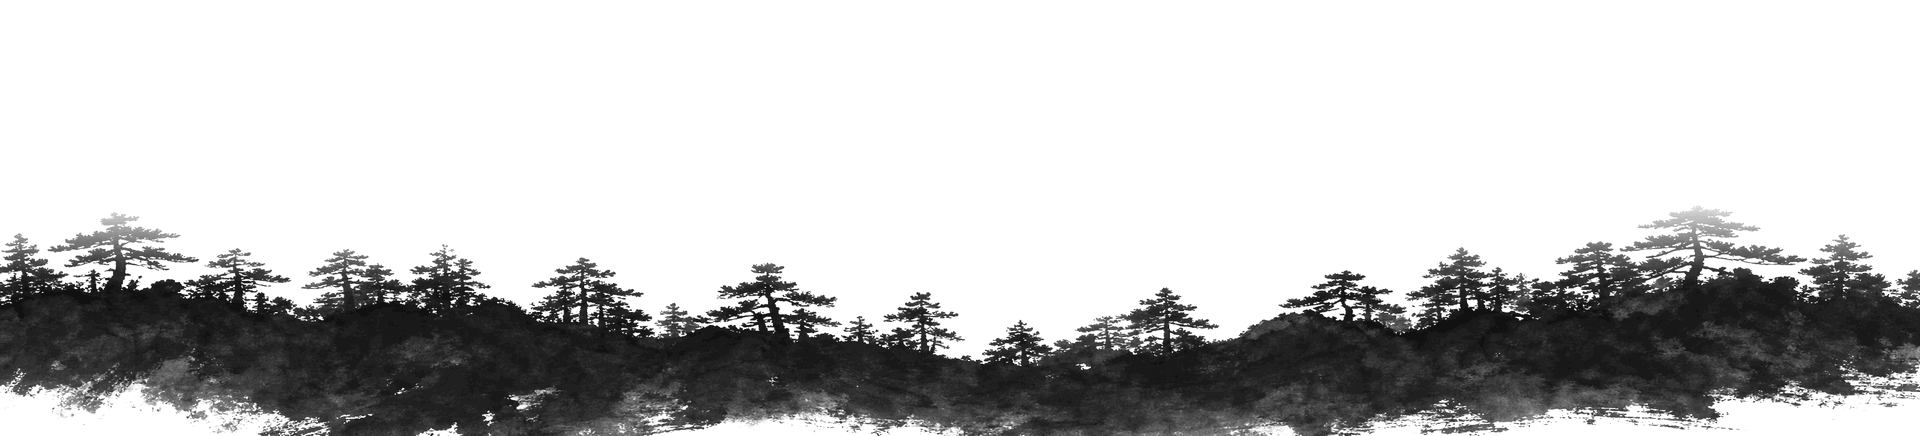
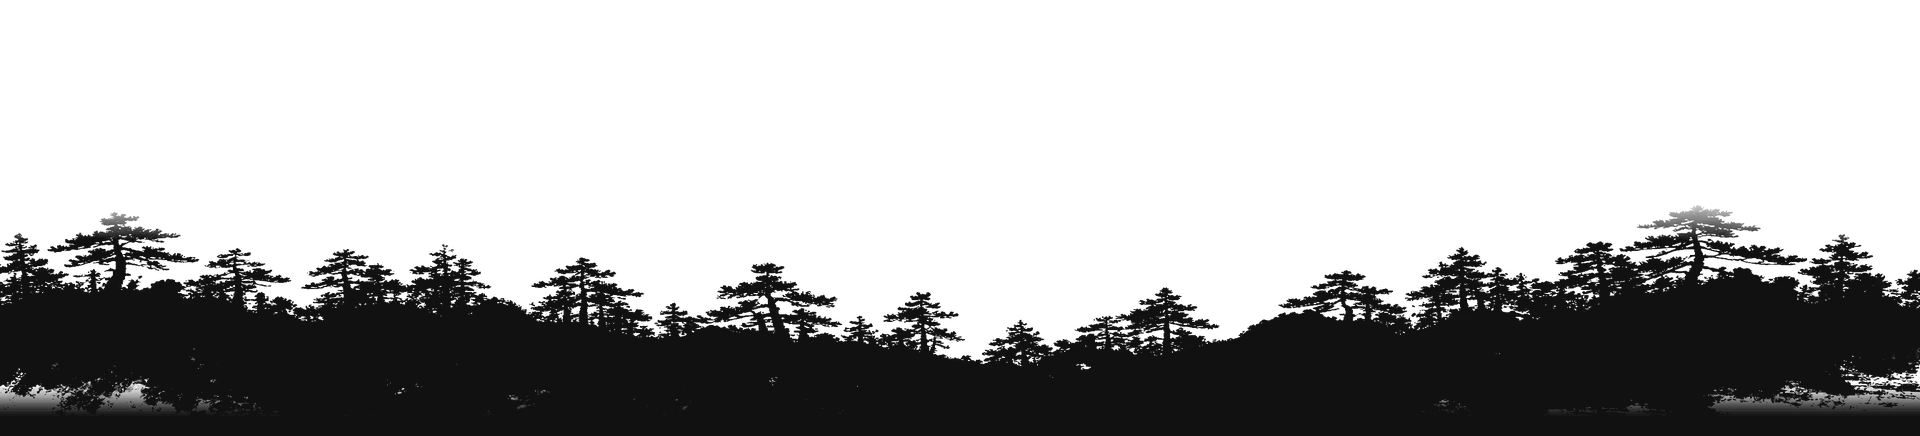
The sun stops leaking through the trees, and the cards earn their panel
FIVE THINGS.

The sun glowed through the pine ridge because the occluder was keyed straight
off ink density and the densest pine mass only reaches 0.88 alpha — 12% of a
red disc came through the trees. The key is boosted x1.9 now, which drives the
solid ridge to a true 1.0 while leaving the misty tops in the 0.2-0.5 range the
sun still has to rise through; the back plate is un-composited against the same
boosted alpha, so the ridge reads as more solid ink rather than double-printed.
The painting also faded its own bottom edge back to paper — lovely on a print,
useless as an occluder at 0.28 alpha — so the foot of the plate is locked
solid. Nothing is lost: the page lays its own mist wash over exactly that band.

The burn was black-over-red, which at half opacity is grey-red mud. It is a
three-stop fire now — ink at the core, oxblood cooling behind it, a hot rim
that holds until the disc has taken the whole sun — baked into one static
gradient, so only the scale animates and it costs nothing per frame. The flood
scale had to go from x1.06 to x1.75 to match: the gradient's SOLID ink only
reaches 62% of the radius, and sized for the outer edge the viewport corners
would have finished on red.

The climb is 281px of scroll, up from 205. The ride is 0.82 of a viewport and
the rise takes 52% of it.

The card hover had a 100ms lead-in, copied faithfully from the reference, where
it reads as composure. On ours it read as lag — cursor on the panel, panel not
[…]

Changed region(s): [[0.0, 0.4771, 1.0, 1.0]]

diff --git a/style.css b/style.css
@@ -544,7 +544,14 @@ section { padding: clamp(96px, 15vh, 210px) var(--pad); position: relative; }
    when the disc floods the page. */
 .sun-fill {
   inset: -2%;
-  background: radial-gradient(circle, var(--ink) 84%, rgba(17,17,17,0) 100%);
+  /* Black over red at half opacity is grey-red mud, which is what the flat
+     crossfade looked like. The burn is a THREE-STOP fire instead — ink at the
+     core, oxblood where it is still cooling, and a hot rim that never quite
+     goes out until the disc has taken the whole sun. All of it is baked into
+     one static gradient; only the scale animates, so it composites and costs
+     nothing per frame. */
+  background: radial-gradient(circle,
+    var(--ink) 62%, #3A0F08 78%, #8A1F10 92%, rgba(150,34,20,0) 100%);
   opacity: 0; transform: scale(0.1); transform-origin: 50% 50%;
   will-change: transform, opacity;
 }
@@ -867,11 +874,23 @@ html.sun-up .sun { z-index: 6; }
   display: flex; flex-direction: column; justify-content: space-between;
   gap: 24px;
   min-height: clamp(400px, 35vw, 532px);
-  padding: clamp(24px, 2.6vw, 40px);
-  /* the wall is #111; the slot is one step off it, closed by a hairline —
-     a mounted panel, not a raised card */
-  background: rgba(255,255,255,0.035);
-  box-shadow: inset 0 0 0 1px rgba(255,255,255,0.08);
+  /* held in a variable because the copy's scrims have to bleed out to exactly
+     this edge — a hard-coded second copy would drift the first time it moves */
+  --pad-slot: clamp(24px, 2.6vw, 40px);
+  padding: var(--pad-slot);
+  /* The wall is #111 and the slot is a panel mounted on it. Flat fill made it
+     a grey rectangle; this is lit instead — brighter along the top edge where
+     the light falls, settling into the wall through the middle, picking up
+     again at the foot. Two hairlines, not one: a bright top edge and a quieter
+     ring, which is how a mounted board actually catches a room. */
+  background:
+    linear-gradient(180deg,
+      rgba(255,255,255,0.075) 0%,
+      rgba(255,255,255,0.022) 46%,
+      rgba(255,255,255,0.014) 72%,
+      rgba(255,255,255,0.05) 100%);
+  box-shadow: inset 0 0 0 1px rgba(255,255,255,0.09),
+              inset 0 1px 0 rgba(255,255,255,0.16);
   /* NOT overflow:hidden. The revealed sheet ends at 10deg and has to hang over
      its neighbours; clipping it here is what made our version read as a box
      lighting up instead of a print being laid down. The raised z-index below
@@ -889,11 +908,36 @@ html.sun-up .sun { z-index: 6; }
 /* content sits at 2; the media opens ABOVE it at 6 and takes the whole panel,
    which is the reference's move: at rest you read the name, on hover you see
    the thing */
+/* The copy gets its own ground. On a pointer device the panel is empty behind
+   it, but on touch the artwork sits there as a ghost and the tags and the name
+   were reading straight off it. A scrim bled from the panel's own edges — dark
+   at the edge, nothing by the middle — means the type always has something
+   under it and the panel still looks empty when it is. */
 .slot-top, .slot-foot { position: relative; z-index: 2; }
-.slot-n {
-  font-size: 12px; font-weight: 600; letter-spacing: 0.14em;
-  color: rgba(255,255,255,0.45); margin-bottom: 14px;
+.slot-top::before, .slot-foot::before {
+  content: ""; position: absolute; z-index: -1; pointer-events: none;
+  left: calc(var(--pad-slot) * -1); right: calc(var(--pad-slot) * -1);
 }
+.slot-top::before {
+  top: calc(var(--pad-slot) * -1); bottom: -28px;
+  background: linear-gradient(180deg, rgba(10,10,10,0.72) 0%, rgba(10,10,10,0.42) 55%, rgba(10,10,10,0) 100%);
+}
+.slot-foot::before {
+  bottom: calc(var(--pad-slot) * -1); top: -34px;
+  background: linear-gradient(0deg, rgba(10,10,10,0.78) 0%, rgba(10,10,10,0.44) 58%, rgba(10,10,10,0) 100%);
+}
+.slot-n {
+  display: inline-flex; align-items: center; gap: 10px;
+  font-size: 12px; font-weight: 600; letter-spacing: 0.14em;
+  color: rgba(255,255,255,0.5); margin-bottom: 14px;
+}
+/* a short rule off the number, the way a shelf tag is ruled */
+.slot-n::after {
+  content: ""; width: 26px; height: 1px;
+  background: rgba(255,255,255,0.26);
+}
+.slot.is-live .slot-n { color: #F0704B; }
+.slot.is-live .slot-n::after { background: rgba(240,112,75,0.5); }
 .slot-name {
   font-family: "Shippori Mincho", Georgia, serif; font-weight: 700;
   font-size: clamp(30px, 3.3vw, 48px); line-height: 1.16; letter-spacing: -0.01em;

diff --git a/index-tr.html b/index-tr.html
@@ -36,9 +36,9 @@
   <link rel="manifest" href="/site.webmanifest">
   <link rel="preload" as="font" type="font/woff2" href="assets/fonts/shippori-800.woff2" crossorigin>
   <link rel="preload" as="font" type="font/woff2" href="assets/fonts/manrope-var.woff2" crossorigin>
-  <link rel="preload" as="image" imagesrcset="assets/horizon-900.webp?s=4 900w, assets/horizon-1400.webp?s=4 1400w, assets/horizon.webp?s=4 1920w" imagesizes="110vw" fetchpriority="high">
-  <link rel="preload" as="image" href="assets/sun-ink.webp?s=4" fetchpriority="high">
-  <link rel="stylesheet" href="style.css?v=124">
+  <link rel="preload" as="image" imagesrcset="assets/horizon-900.webp?s=5 900w, assets/horizon-1400.webp?s=5 1400w, assets/horizon.webp?s=5 1920w" imagesizes="110vw" fetchpriority="high">
+  <link rel="preload" as="image" href="assets/sun-ink.webp?s=5" fetchpriority="high">
+  <link rel="stylesheet" href="style.css?v=125">
   <script type="application/ld+json">
   {"@context": "https://schema.org", "@type": "Organization", "name": "217 Products", "url": "https://217products.com/", "logo": "https://217products.com/assets/icon-512.png", "image": "https://217products.com/assets/zen.webp?w=1", "description": "Ankara’dan dünyaya açılan bağımsız bir ürün şirketiyiz. Gördüğümüz boşluklara hızlı, sade ve uzun ömürlü ürünler inşa ediyoruz.", "email": "destek217product@gmail.com", "foundingDate": "2026", "address": {"@type": "PostalAddress", "addressLocality": "Ankara", "addressCountry": "TR"}}
   </script>
@@ -73,9 +73,9 @@
     <!-- 1 · HERO — one sentence on paper, the plate at its foot -->
     <section class="hero">
       <div class="hero-ground" id="scene" aria-hidden="true">
-        <img decoding="async" class="hz hz-back" data-depth="0.22" src="assets/horizon.webp?s=4" srcset="assets/horizon-900.webp?s=4 900w, assets/horizon-1400.webp?s=4 1400w, assets/horizon.webp?s=4 1920w" sizes="110vw" alt="" width="1920" height="436" fetchpriority="high">
-        <span class="sun" id="sun"><img class="sun-ink" src="assets/sun-ink.webp?s=4" alt="" width="320" height="320" decoding="sync" fetchpriority="high"><i class="sun-fill"></i></span>
-        <img decoding="async" class="hz hz-front" data-depth="0.22" src="assets/horizon-front.webp?s=4" srcset="assets/horizon-front-900.webp?s=4 900w, assets/horizon-front-1400.webp?s=4 1400w, assets/horizon-front.webp?s=4 1920w" sizes="110vw" alt="" width="1920" height="436">
+        <img decoding="async" class="hz hz-back" data-depth="0.22" src="assets/horizon.webp?s=5" srcset="assets/horizon-900.webp?s=5 900w, assets/horizon-1400.webp?s=5 1400w, assets/horizon.webp?s=5 1920w" sizes="110vw" alt="" width="1920" height="436" fetchpriority="high">
+        <span class="sun" id="sun"><img class="sun-ink" src="assets/sun-ink.webp?s=5" alt="" width="320" height="320" decoding="sync" fetchpriority="high"><i class="sun-fill"></i></span>
+        <img decoding="async" class="hz hz-front" data-depth="0.22" src="assets/horizon-front.webp?s=5" srcset="assets/horizon-front-900.webp?s=5 900w, assets/horizon-front-1400.webp?s=5 1400w, assets/horizon-front.webp?s=5 1920w" sizes="110vw" alt="" width="1920" height="436">
       </div>
       <img class="kasumi" aria-hidden="true" decoding="async" src="assets/kasumi.webp?w=1" srcset="assets/kasumi-900.webp?w=1 900w, assets/kasumi-1400.webp?w=1 1400w, assets/kasumi.webp?w=1 1920w" sizes="110vw" alt="" width="1920" height="576">
       <div class="specks" aria-hidden="true"><i></i><i></i><i></i><i></i><i></i><i></i><i></i><i></i><i></i><i></i><i></i><i></i><i></i><i></i><i></i><i></i></div>
@@ -103,7 +103,7 @@
       <div class="slots">
         <article class="slot is-live">
           <span class="slot-media" aria-hidden="true">
-            <img src="assets/osnote-rich.webp?u=5" alt="" width="1200" height="896" loading="lazy" decoding="async">
+            <img src="assets/osnote-card.webp?s=1" alt="" width="900" height="1206" loading="lazy" decoding="async">
             <span class="slot-seal">壱</span>
           </span>
           <div class="slot-top">
@@ -296,6 +296,6 @@
   <script src="vendor/gsap.min.js?v=3.15.0"></script>
   <script src="vendor/ScrollTrigger.min.js?v=3.15.0"></script>
   <script src="vendor/lenis.min.js?v=1.3.25"></script>
-  <script src="main.js?v=80"></script>
+  <script src="main.js?v=81"></script>
 </body>
 </html>

diff --git a/index.html b/index.html
@@ -36,9 +36,9 @@
   <link rel="manifest" href="/site.webmanifest">
   <link rel="preload" as="font" type="font/woff2" href="assets/fonts/shippori-800.woff2" crossorigin>
   <link rel="preload" as="font" type="font/woff2" href="assets/fonts/manrope-var.woff2" crossorigin>
-  <link rel="preload" as="image" imagesrcset="assets/horizon-900.webp?s=4 900w, assets/horizon-1400.webp?s=4 1400w, assets/horizon.webp?s=4 1920w" imagesizes="110vw" fetchpriority="high">
-  <link rel="preload" as="image" href="assets/sun-ink.webp?s=4" fetchpriority="high">
-  <link rel="stylesheet" href="style.css?v=124">
+  <link rel="preload" as="image" imagesrcset="assets/horizon-900.webp?s=5 900w, assets/horizon-1400.webp?s=5 1400w, assets/horizon.webp?s=5 1920w" imagesizes="110vw" fetchpriority="high">
+  <link rel="preload" as="image" href="assets/sun-ink.webp?s=5" fetchpriority="high">
+  <link rel="stylesheet" href="style.css?v=125">
   <script type="application/ld+json">
   {"@context": "https://schema.org", "@type": "Organization", "name": "217 Products", "url": "https://217products.com/", "logo": "https://217products.com/assets/icon-512.png", "image": "https://217products.com/assets/zen.webp?w=1", "description": "An independent product company reaching from Ankara to the world. Where we see a gap, we build products that are fast, simple, and made to last.", "email": "destek217product@gmail.com", "foundingDate": "2026", "address": {"@type": "PostalAddress", "addressLocality": "Ankara", "addressCountry": "TR"}}
   </script>
@@ -73,9 +73,9 @@
     <!-- 1 · HERO (3D parallax) -->
     <section class="hero">
       <div class="hero-ground" id="scene" aria-hidden="true">
-        <img decoding="async" class="hz hz-back" data-depth="0.22" src="assets/horizon.webp?s=4" srcset="assets/horizon-900.webp?s=4 900w, assets/horizon-1400.webp?s=4 1400w, assets/horizon.webp?s=4 1920w" sizes="110vw" alt="" width="1920" height="436" fetchpriority="high">
-        <span class="sun" id="sun"><img class="sun-ink" src="assets/sun-ink.webp?s=4" alt="" width="320" height="320" decoding="sync" fetchpriority="high"><i class="sun-fill"></i></span>
-        <img decoding="async" class="hz hz-front" data-depth="0.22" src="assets/horizon-front.webp?s=4" srcset="assets/horizon-front-900.webp?s=4 900w, assets/horizon-front-1400.webp?s=4 1400w, assets/horizon-front.webp?s=4 1920w" sizes="110vw" alt="" width="1920" height="436">
+        <img decoding="async" class="hz hz-back" data-depth="0.22" src="assets/horizon.webp?s=5" srcset="assets/horizon-900.webp?s=5 900w, assets/horizon-1400.webp?s=5 1400w, assets/horizon.webp?s=5 1920w" sizes="110vw" alt="" width="1920" height="436" fetchpriority="high">
+        <span class="sun" id="sun"><img class="sun-ink" src="assets/sun-ink.webp?s=5" alt="" width="320" height="320" decoding="sync" fetchpriority="high"><i class="sun-fill"></i></span>
+        <img decoding="async" class="hz hz-front" data-depth="0.22" src="assets/horizon-front.webp?s=5" srcset="assets/horizon-front-900.webp?s=5 900w, assets/horizon-front-1400.webp?s=5 1400w, assets/horizon-front.webp?s=5 1920w" sizes="110vw" alt="" width="1920" height="436">
       </div>
       <img class="kasumi" aria-hidden="true" decoding="async" src="assets/kasumi.webp?w=1" srcset="assets/kasumi-900.webp?w=1 900w, assets/kasumi-1400.webp?w=1 1400w, assets/kasumi.webp?w=1 1920w" sizes="110vw" alt="" width="1920" height="576">
       <div class="specks" aria-hidden="true"><i></i><i></i><i></i><i></i><i></i><i></i><i></i><i></i><i></i><i></i><i></i><i></i><i></i><i></i><i></i><i></i></div>
@@ -103,7 +103,7 @@
       <div class="slots">
         <article class="slot is-live">
           <span class="slot-media" aria-hidden="true">
-            <img src="assets/osnote-rich.webp?u=5" alt="" width="1200" height="896" loading="lazy" decoding="async">
+            <img src="assets/osnote-card.webp?s=1" alt="" width="900" height="1206" loading="lazy" decoding="async">
             <span class="slot-seal">壱</span>
           </span>
           <div class="slot-top">
@@ -296,6 +296,6 @@
   <script src="vendor/gsap.min.js?v=3.15.0"></script>
   <script src="vendor/ScrollTrigger.min.js?v=3.15.0"></script>
   <script src="vendor/lenis.min.js?v=1.3.25"></script>
-  <script src="main.js?v=80"></script>
+  <script src="main.js?v=81"></script>
 </body>
 </html>

diff --git a/main.js b/main.js
@@ -167,8 +167,8 @@
      Slower than the reference on purpose: its circle covers in 205px, which is
      a snap you feel rather than read. Ours holds a beat longer so the disc
      registers as a shape before it becomes a flood. */
-  var INK_RIDE = 0.62;   /* fraction of a viewport the whole opening takes */
-  var INK_HOLD = 0.45;   /* fraction of that ride the sun spends climbing */
+  var INK_RIDE = 0.82;   /* fraction of a viewport the whole opening takes */
+  var INK_HOLD = 0.52;   /* fraction of that ride the sun spends climbing */
 
   /* ---------- THE SUN ----------
      One gesture, three beats, all on the scroll:
@@ -196,7 +196,7 @@
        handover is a long ramp, so the pine tops are mist the sentence can be
        read through, and the layer only reaches 0.88 alpha at 81% down. This is
        that line, measured off the layer's own alpha profile. */
-    var RIDGE = 0.30;
+    var RIDGE = 0.20;
     var geo = null;
 
     function measure() {
@@ -261,7 +261,12 @@
         Math.hypot(innerWidth - cx, cy),
         Math.hypot(cx, innerHeight - cy),
         Math.hypot(innerWidth - cx, innerHeight - cy));
-      return (far * 2) / w * 1.06; /* +6% so no rim shows at the corner */
+      /* x1.75, not x1.06. The burn gradient's SOLID ink only reaches 62% of the
+         disc's radius — beyond that it is still oxblood cooling to a hot rim.
+         Sized for the outer edge, the viewport corners would have finished on
+         red. Sized so the ink CORE clears the far corner, the page hands over
+         black and the rim is off-screen where it belongs. */
+      return (far * 2) / w * 1.75;
     }
 
     var RIDE = INK_RIDE, HOLD = INK_HOLD;
@@ -542,14 +547,20 @@
       gsap.utils.toArray(".slot").forEach(function (slot) {
         var media = slot.querySelector(".slot-media");
         if (!media) return;
+        /* NO LEAD-IN. The reference waits 100ms before anything moves, which
+           reads as composure on its own site and as lag on ours — the cursor is
+           on the panel and the panel has not answered. The SHAPE of the move is
+           untouched (overshoot past 1, settle back, the turn carrying on
+           through both stages); only the pause in front of it is gone, and the
+           whole flick is a shade quicker at 260ms against 400. */
         var tl = gsap.timeline({ paused: true })
           .set(media, { scale: 0, rotation: 0 })
           /* opacity is its own, shorter tween — on the way back out it
              dissolves the sheet while it is still shrinking, instead of
              collapsing a solid dot into nothing */
-          .fromTo(media, { opacity: 0 }, { opacity: 1, duration: 0.14, ease: "none" }, 0.1)
-          .to(media, { scale: 1.1, rotation: midTurn, duration: 0.2, ease: "power1.inOut" }, 0.1)
-          .to(media, { scale: 1, rotation: endTurn, duration: 0.1, ease: "power1.inOut" }, 0.3);
+          .fromTo(media, { opacity: 0 }, { opacity: 1, duration: 0.1, ease: "none" }, 0)
+          .to(media, { scale: 1.1, rotation: midTurn, duration: 0.17, ease: "power2.out" }, 0)
+          .to(media, { scale: 1, rotation: endTurn, duration: 0.09, ease: "power1.inOut" }, 0.17);
         var open = function () { tl.play(); };
         var shut = function () { tl.reverse(); };
         var blur = function (e) { if (!slot.contains(e.relatedTarget)) shut(); };
